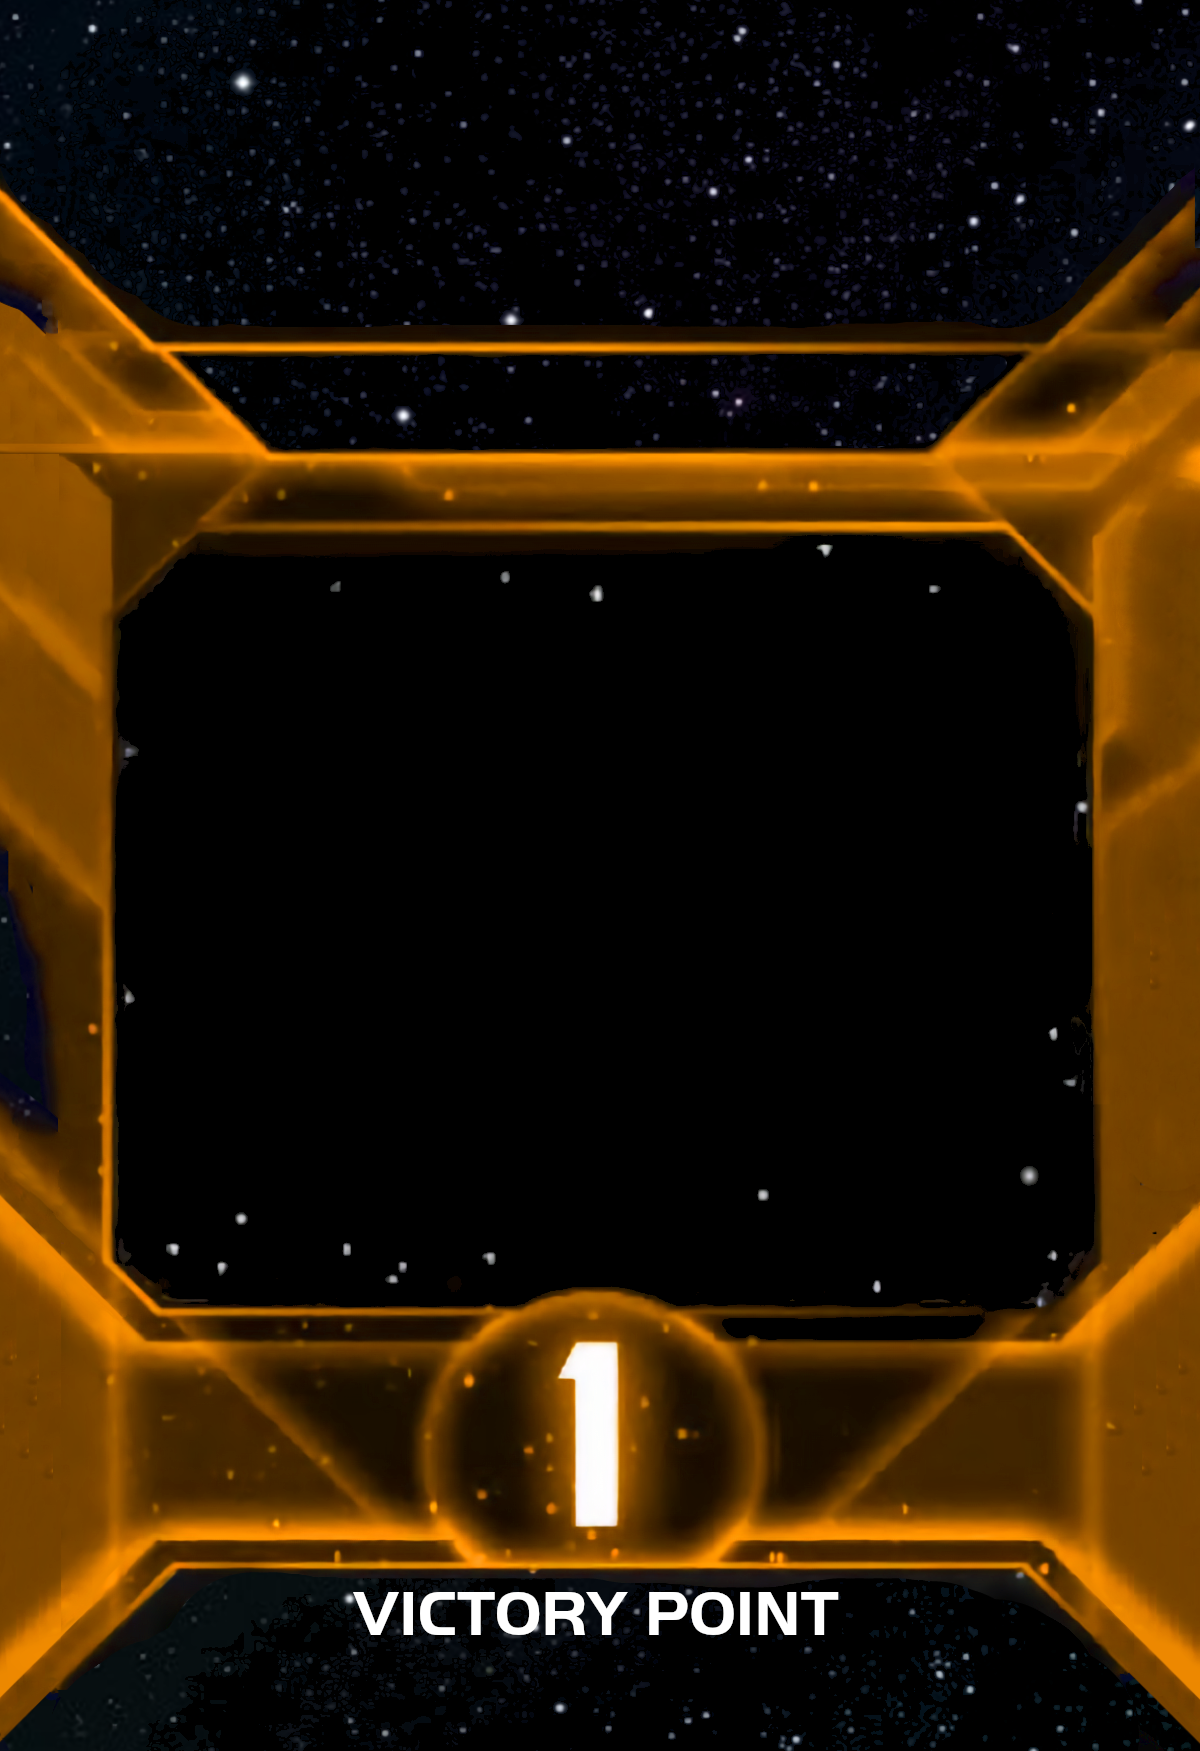
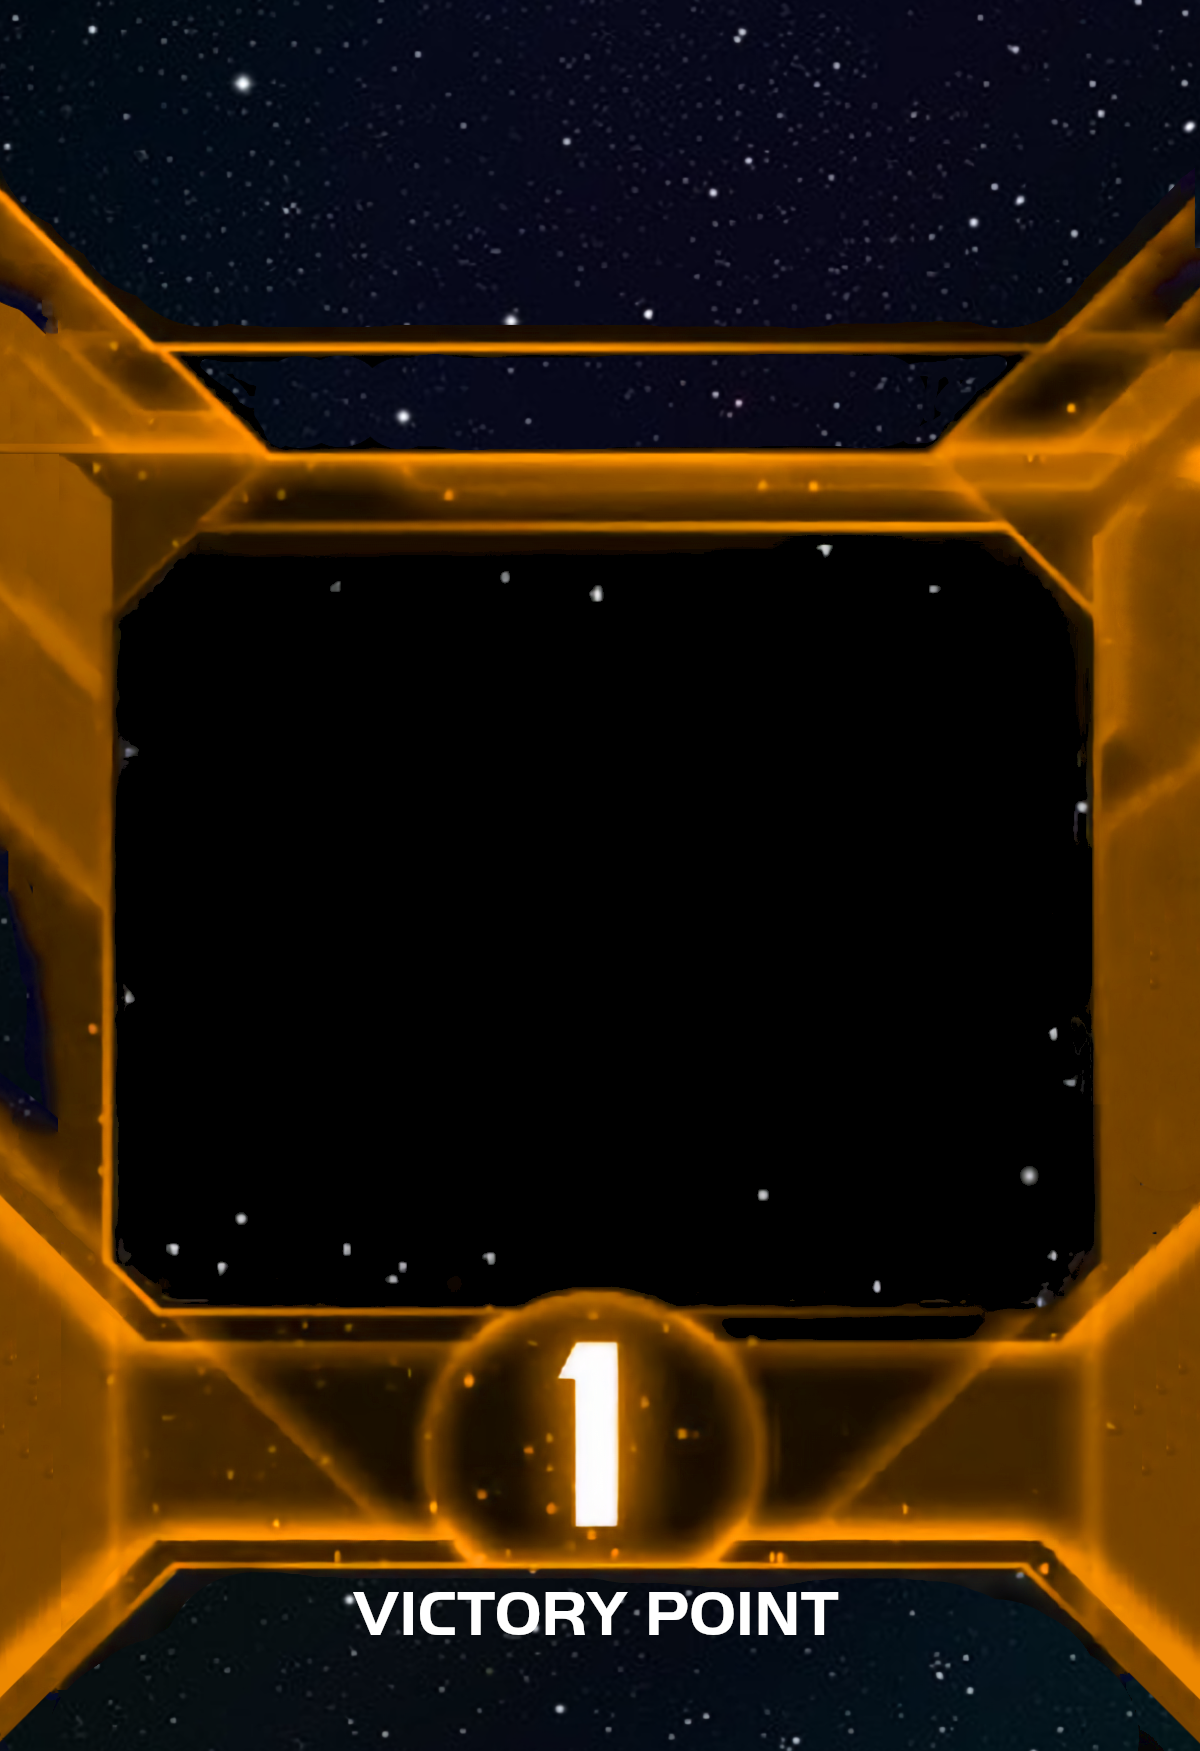
Adds deck building capabilities that try to make the created image as square as possible. Also updates backgrounds and adds objective backs.

Changed region(s): [[0.1542, 0.0, 1.0, 0.2776], [0.5858, 0.8943, 1.0, 1.0], [0.9867, 0.0617, 1.0, 0.0925]]

diff --git a/deck_builder.py b/deck_builder.py
@@ -43,14 +43,14 @@ if not os.path.exists("generatedImages/"+args.objective_type):
     # Create the objective_type folder
     os.makedirs("generatedImages/"+args.objective_type)
 
-# Check if the objective_type folder exists
-if not os.path.exists("generatedImages/decks"):
-    # Create the objective_type folder
-    os.makedirs("generatedImages/decks")
+
 
 
 background_image = Image.open(f"backgrounds/{args.objective_type}.png")
-deck = Image.new('RGB', (background_image.width*10, int(np.ceil(background_image.height*len(data)/10))))
+z = pd.Index(data).size
+x_deck = int(np.ceil(np.sqrt(z*background_image.height / background_image.width )))
+y_deck = int(np.ceil(z/x_deck))
+deck = Image.new('RGB', (x_deck*background_image.width, y_deck*background_image.height))
 
 # Iterate over each row in the CSV
 for index, row in data.iterrows():
@@ -142,10 +142,20 @@ for index, row in data.iterrows():
             font=font2,
             fill=(255, 255, 255)
         )
-    
+
     # Save the new image with the name as the filename
     new_image.save(f"generatedImages/{args.objective_type}/{name}.png")
-    deck.paste(new_image, (background_image.width*(index%10), background_image.height*(index//10)))
+    deck.paste(
+        new_image,
+        (background_image.width*(index%x_deck), background_image.height*(index//x_deck))
+    )
 
-deck.save(f"generatedImages/decks/{args.objective_type}.jpg")
+
+# Check if the objective_type folder exists
+if not os.path.exists("generatedImages/decks"):
+    # Create the objective_type folder
+    os.makedirs("generatedImages/decks")
+
+deck = deck.resize((deck.width//2, deck.height//2))
+deck.save(f"generatedImages/decks/{args.objective_type}.png")
 
